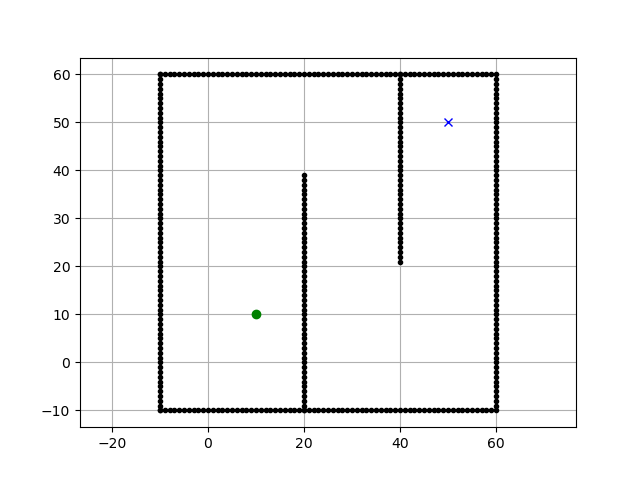
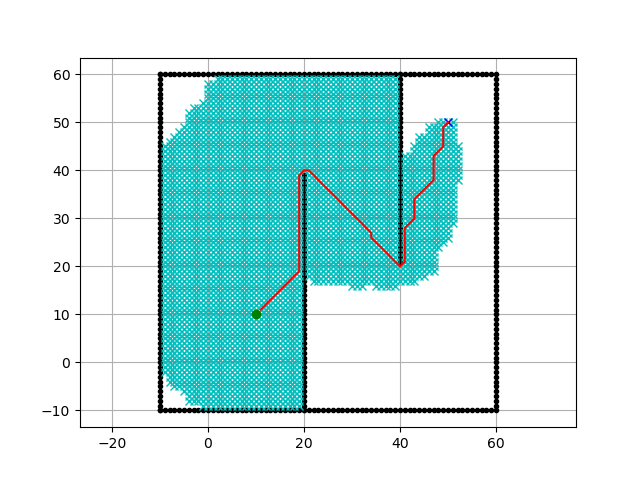
Finish AStar

Changed region(s): [[0.25, 0.1562, 0.75, 0.875]]

diff --git a/Planning/astar/mjyc.h b/Planning/astar/mjyc.h
@@ -1,21 +1,105 @@
+#include <algorithm>
+#include <deque>
+#include <unordered_map>
+#include <unordered_set>
 #include <utility>
 
 using Cell = std::pair<short int, short int>;
 
-float Dist(const Cell &a, const Cell &b)
+template <>
+struct std::hash<Cell>
 {
-    auto dx = static_cast<float>(a.first - b.first);
-    auto dy = static_cast<float>(a.second - b.second);
-    return std::sqrt(dx * dx + dy * dy);
+  std::size_t operator()(const Cell& cell) const
+  {
+    std::size_t h1 = std::hash<short int>{}(cell.first);
+    std::size_t h2 = std::hash<short int>{}(cell.second);
+    return h1 ^ (h2 << 1);
+  }
+};
+
+float CalcDist(const Cell& a, const Cell& b)
+{
+  auto dx = static_cast<float>(a.first - b.first);
+  auto dy = static_cast<float>(a.second - b.second);
+  return std::sqrt(dx * dx + dy * dy);
 }
 
 std::vector<Cell> AStar(
-    const std::vector<Cell> &obstacles,
-    const Cell &start,
-    const Cell &goal,
-    const std::function<float(const Cell &, const Cell &)> &h_fnc,
-    const std::vector<Cell> &visited = {})
+  const std::vector<Cell>& obstacles, const Cell& start, const Cell& goal,
+  const std::function<float(const Cell&, const Cell&)>& h_fnc,
+  std::vector<Cell>& debug_visited)
 {
-    std::vector<Cell> path;
-    return path;
+  using QueueElement = std::pair<float, Cell>;  // f_score, position
+
+  std::unordered_set<Cell> obstacle_set{obstacles.begin(), obstacles.end()};
+  std::unordered_set<Cell> open_set;
+  std::unordered_set<Cell> closed_set;
+  std::unordered_map<Cell, float> f_scores;
+  std::unordered_map<Cell, float> g_scores;
+  std::unordered_map<Cell, Cell> prevs;
+  std::deque<QueueElement> queue;
+
+  open_set.insert(start);
+  g_scores[start] = CalcDist(start, goal);
+  f_scores[start] = g_scores[start];  // h_score is 0
+  queue.push_back({f_scores[start], start});
+
+  while (!open_set.empty())
+  {
+    auto& [unused, current] = queue.front();
+    queue.pop_front();
+
+    if (current == goal) break;
+
+    open_set.erase(current);
+    closed_set.insert(current);
+    for (short int x_diff = -1; x_diff <= 1; ++x_diff)
+    {
+      for (short int y_diff = -1; y_diff <= 1; ++y_diff)
+      {
+        if (x_diff == 0 && y_diff == 0) continue;
+
+        Cell neighbor{current.first + x_diff, current.second + y_diff};
+        if (obstacle_set.contains(neighbor) || closed_set.contains(neighbor))
+          continue;
+
+        float neighbor_g_score =
+          g_scores[current] + CalcDist(current, neighbor);
+        float neighbor_h_score = h_fnc(neighbor, goal);
+        if (open_set.contains(neighbor))
+        {
+          if (neighbor_g_score < g_scores[neighbor])
+          {
+            g_scores[neighbor] = neighbor_g_score;
+            f_scores[neighbor] = g_scores[neighbor] + neighbor_h_score;
+            prevs[neighbor] = current;
+          }
+        }
+        else
+        {
+          open_set.insert(neighbor);
+          g_scores[neighbor] = neighbor_g_score;
+          f_scores[neighbor] = g_scores[neighbor] + neighbor_h_score;
+          prevs[neighbor] = current;
+          queue.push_back({f_scores[neighbor], neighbor});
+          std::push_heap(queue.begin(), queue.end(),
+                         [](const QueueElement& a, const QueueElement& b)
+                         {
+                           return a.first > b.first;
+                         });
+          debug_visited.push_back({neighbor.first, neighbor.second});
+        }
+      }
+    }
+  }
+
+  std::vector<Cell> path;
+  Cell cell_in_path{goal};
+  while (prevs.contains(cell_in_path))
+  {
+    path.push_back(cell_in_path);
+    cell_in_path = prevs[cell_in_path];
+  }
+  std::reverse(path.begin(), path.end());
+  return path;
 }

diff --git a/Planning/astar/simulate.cpp b/Planning/astar/simulate.cpp
@@ -1,5 +1,6 @@
 #include <nlohmann/json.hpp>
 
+#include <fstream>
 #include <iostream>
 #include <mjyc.h>
 #include <utility>
@@ -57,20 +58,39 @@ json ToJSON(const std::vector<Cell>& obstacles, const Cell& start,
   return j;
 }
 
-int main()
+int main(int argc, char* argv[])
 {
+  // A* parameters
   const std::vector<Cell> obstacles{CreateObstacles()};
   const Cell start{10, 10};
   const Cell goal{50, 50};
-
   const std::function<float(const Cell&, const Cell&)> h_fnc =
-    [](const Cell& c1, const Cell& c2) {
-      return Dist(c1, c2);
-    };
+    [](const Cell& c1, const Cell& c2)
+  {
+    return CalcDist(c1, c2);
+  };
   std::vector<Cell> visited;
-  const std::vector<Cell> path{AStar(obstacles, start, goal, h_fnc, visited)};
 
-  std::cout << ToJSON(obstacles, start, goal, path, visited).dump()
-            << std::endl;
+  // Plan with A*
+  const std::vector<Cell> path = AStar(obstacles, start, goal, h_fnc, visited);
+
+  // Print
+  if (argc <= 1)
+  {
+    std::cout << ToJSON(obstacles, start, goal, path, visited).dump()
+              << std::endl;
+    return 0;
+  }
+
+  // Save
+  std::string filename = argv[1];  // NOLINT
+  std::ofstream file(filename);
+  if (!file)
+  {
+    std::cerr << "Error opening file: " << filename << std::endl;
+    return 1;
+  }
+  file << ToJSON(obstacles, start, goal, path, visited).dump() << std::endl;
+
   return 0;
 }

diff --git a/.scripts/Planning/astar/astar.py b/.scripts/Planning/astar/astar.py
@@ -1,3 +1,5 @@
+#!/usr/bin/env python3
+
 from sys import argv
 from json import load
 
@@ -14,11 +16,11 @@ def save_astar_solution_as_png(
     visited: list[Cell],
     filename: str = "astar.png",
 ) -> None:
-    ox, oy = [list(lst) for lst in zip(*obstacles)]
+    ox, oy = [list(lst) for lst in zip(*obstacles)] if obstacles else [[], []]
     sx, sy = start
     gx, gy = goal
-    px, py = [list(lst) for lst in zip(*path)]
-    vx, vy = [list(lst) for lst in zip(*visited)]
+    px, py = [list(lst) for lst in zip(*path)] if path else [[], []]
+    vx, vy = [list(lst) for lst in zip(*visited)] if visited else [[], []]
     plt.plot(ox, oy, ".k")
     plt.plot(vx, vy, "xc")
     plt.plot(sx, sy, "og")
